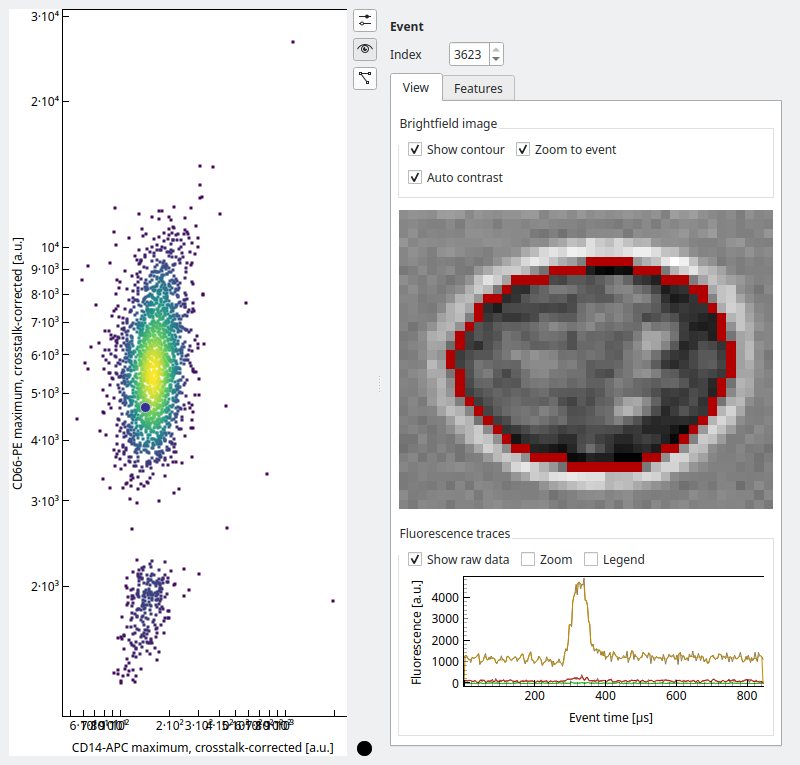
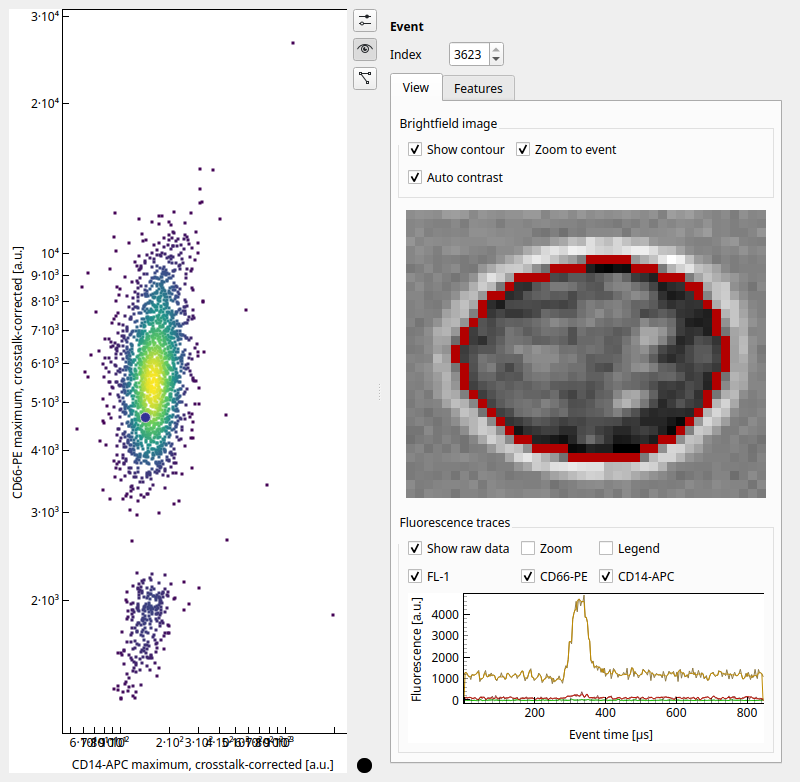
enh: allow to hide the traces of individual fluorescence channels (#249)
* enh: allow to hide the traces of individual fluorescence channels (#200)

New checkboxes (labeled with the channel names) above the trace plot
in the event panel of the Quick View.

* docs: update Quick View screenshots (fluorescence channel checkboxes)

* tests: wait for the event traces in test_trace_baseline_offset_issue_81

The trace plots initially contain placeholder data (10 points), so
waiting for `yData is not None` returned immediately and the test
failed on macOS CI when the event data were not shown yet.

---------

diff --git a/tests/test_gui_quickview.py b/tests/test_gui_quickview.py
@@ -1428,14 +1428,61 @@ def test_trace_baseline_offset_issue_81(qtbot, mw, tmp_path):
 
     plot_fl1 = qv.trace_plots["fl1_raw"]
     plot_fl2 = qv.trace_plots["fl2_raw"]
-    qtbot.waitUntil(lambda: plot_fl1.yData is not None
-                    and plot_fl2.yData is not None,
-                    timeout=5000)
 
     index = qv.ui.spinBox_event.value() - 1
     with dclab.new_dataset(path) as ds:
-        fl1 = ds["trace"]["fl1_raw"][index]
-        fl2 = ds["trace"]["fl2_raw"][index]
-    # offset only defined for channel 1
-    assert np.allclose(plot_fl1.yData, fl1 + 17)
-    assert np.allclose(plot_fl2.yData, fl2)
+        fl1 = np.array(ds["trace"]["fl1_raw"][index])
+        fl2 = np.array(ds["trace"]["fl2_raw"][index])
+
+    def traces_shown():
+        # The trace plots initially contain placeholder data, so we have
+        # to wait until the event data are shown.
+        assert len(plot_fl1.yData) == fl1.size
+        assert len(plot_fl2.yData) == fl2.size
+        # offset only defined for channel 1
+        assert np.allclose(plot_fl1.yData, fl1 + 17)
+        assert np.allclose(plot_fl2.yData, fl2)
+
+    qtbot.waitUntil(traces_shown, timeout=5000)
+
+
+def test_hide_fluorescence_channel_traces_issue_200(qtbot, mw):
+    """Traces of individual fluorescence channels can be hidden (#200)"""
+    qtbot.addWidget(mw)
+    mw.add_dataslot(paths=[datapath / "calibration_beads_47.rtdc"])
+    mw.pipeline.slots[0].fl_name_dict["FL-2"] = "PE"
+
+    slot_id = mw.pipeline.slot_ids[0]
+    filt_id = mw.pipeline.filter_ids[0]
+    em = mw.ui.block_matrix.get_widget(slot_id, filt_id)
+    qtbot.mouseClick(em, QtCore.Qt.MouseButton.LeftButton)
+    qtbot.mouseClick(em, QtCore.Qt.MouseButton.LeftButton,
+                     QtCore.Qt.KeyboardModifier.ShiftModifier)
+    qv = mw.widget_quick_view
+    qtbot.waitUntil(qv.isVisible, timeout=5000)
+    qtbot.mouseClick(qv.ui.toolButton_event,
+                     QtCore.Qt.MouseButton.LeftButton)
+    tp = qv.trace_plots
+    qtbot.waitUntil(lambda: tp["fl1_raw"].isVisible()
+                    and tp["fl2_raw"].isVisible(),
+                    timeout=5000)
+    # the checkboxes are labeled with the channel names
+    assert qv.ui.checkBox_trace_fl2.text() == "PE"
+
+    # hide FL-2
+    qv.ui.checkBox_trace_fl2.setChecked(False)
+    qtbot.waitUntil(lambda: not tp["fl2_raw"].isVisible(), timeout=5000)
+    assert not tp["fl2_median"].isVisible()
+    assert tp["fl1_raw"].isVisible()
+    assert tp["fl1_median"].isVisible()
+    assert tp["fl3_median"].isVisible()
+
+    # still hidden for the next event
+    qv.ui.spinBox_event.setValue(qv.ui.spinBox_event.value() + 1)
+    QtTest.QTest.qWait(500)
+    assert not tp["fl2_raw"].isVisible()
+    assert tp["fl1_raw"].isVisible()
+
+    # show FL-2 again
+    qv.ui.checkBox_trace_fl2.setChecked(True)
+    qtbot.waitUntil(lambda: tp["fl2_raw"].isVisible(), timeout=5000)

diff --git a/dcscope/gui/quick_view/qv_main.py b/dcscope/gui/quick_view/qv_main.py
@@ -143,6 +143,9 @@ class QuickView(QtWidgets.QWidget):
             self.on_event_scatter_update)
         self.ui.checkBox_trace_zoom.stateChanged.connect(
             self.on_event_scatter_update)
+        for ii in range(1, 4):
+            getattr(self.ui, f"checkBox_trace_fl{ii}").stateChanged.connect(
+                self.on_event_scatter_update)
         self.ui.tabWidget_event.currentChanged.connect(
             self.on_event_scatter_update)
 
@@ -334,6 +337,10 @@ class QuickView(QtWidgets.QWidget):
             "trace legend": self.ui.checkBox_trace_legend.isChecked(),
             "trace raw": self.ui.checkBox_trace_raw.isChecked(),
             "trace zoom": self.ui.checkBox_trace_zoom.isChecked(),
+            # fluorescence channels for which traces are shown (#200)
+            "trace channels": [
+                ii for ii in range(1, 4)
+                if getattr(self.ui, f"checkBox_trace_fl{ii}").isChecked()],
         }
         state = {
             "plot": plot,
@@ -383,6 +390,10 @@ class QuickView(QtWidgets.QWidget):
             self.ui.spinBox_event.setValue(event["index"])
             self.ui.checkBox_trace_raw.setChecked(event["trace raw"])
             self.ui.checkBox_trace_legend.setChecked(event["trace legend"])
+            channels = event.get("trace channels", [1, 2, 3])
+            for ii in range(1, 4):
+                getattr(self.ui, f"checkBox_trace_fl{ii}").setChecked(
+                    ii in channels)
 
     def enable_interface(self, value):
         # Initially, only show the info about how QuickView works
@@ -487,9 +498,19 @@ class QuickView(QtWidgets.QWidget):
         # fluorescence intensity
         range_fl = [0, 0]
 
+        # Show checkboxes only for the channels with traces (#200)
+        for ii in range(1, 4):
+            cb = getattr(self.ui, f"checkBox_trace_fl{ii}")
+            cb.setVisible(any(name.startswith(f"fl{ii}_") for name in tdata))
+            if self.slot is not None:
+                cb.setText(self.slot.fl_name_dict[f"FL-{ii}"])
+
         for name in dclab.dfn.FLUOR_TRACES:
             if name.count("raw") and not state["event"]["trace raw"]:
                 # hide raw trace data if user decided so
+                show = False
+            elif int(name[2]) not in state["event"]["trace channels"]:
+                # hide traces of this channel if user decided so
                 show = False
             else:
                 show = True

diff --git a/dcscope/gui/quick_view/qv_main_ui.py b/dcscope/gui/quick_view/qv_main_ui.py
@@ -389,6 +389,18 @@ class Ui_Form(object):
         self.checkBox_trace_legend = QtWidgets.QCheckBox(parent=self.widget)
         self.checkBox_trace_legend.setObjectName("checkBox_trace_legend")
         self.gridLayout_4.addWidget(self.checkBox_trace_legend, 0, 2, 1, 1)
+        self.checkBox_trace_fl1 = QtWidgets.QCheckBox(parent=self.widget)
+        self.checkBox_trace_fl1.setChecked(True)
+        self.checkBox_trace_fl1.setObjectName("checkBox_trace_fl1")
+        self.gridLayout_4.addWidget(self.checkBox_trace_fl1, 1, 0, 1, 1)
+        self.checkBox_trace_fl2 = QtWidgets.QCheckBox(parent=self.widget)
+        self.checkBox_trace_fl2.setChecked(True)
+        self.checkBox_trace_fl2.setObjectName("checkBox_trace_fl2")
+        self.gridLayout_4.addWidget(self.checkBox_trace_fl2, 1, 1, 1, 1)
+        self.checkBox_trace_fl3 = QtWidgets.QCheckBox(parent=self.widget)
+        self.checkBox_trace_fl3.setChecked(True)
+        self.checkBox_trace_fl3.setObjectName("checkBox_trace_fl3")
+        self.gridLayout_4.addWidget(self.checkBox_trace_fl3, 1, 2, 1, 1)
         self.verticalLayout_6.addLayout(self.gridLayout_4)
         self.graphicsView_trace = SimplePlotWidget(parent=self.widget)
         self.graphicsView_trace.setMinimumSize(QtCore.QSize(0, 150))
@@ -600,6 +612,12 @@ class Ui_Form(object):
         self.checkBox_trace_raw.setText(_translate("Form", "Show raw data"))
         self.checkBox_trace_zoom.setText(_translate("Form", "Zoom"))
         self.checkBox_trace_legend.setText(_translate("Form", "Legend"))
+        self.checkBox_trace_fl1.setToolTip(_translate("Form", "Show the traces of fluorescence channel 1"))
+        self.checkBox_trace_fl1.setText(_translate("Form", "FL-1"))
+        self.checkBox_trace_fl2.setToolTip(_translate("Form", "Show the traces of fluorescence channel 2"))
+        self.checkBox_trace_fl2.setText(_translate("Form", "FL-2"))
+        self.checkBox_trace_fl3.setToolTip(_translate("Form", "Show the traces of fluorescence channel 3"))
+        self.checkBox_trace_fl3.setText(_translate("Form", "FL-3"))
         self.tabWidget_event.setTabText(self.tabWidget_event.indexOf(self.tab_view), _translate("Form", "View"))
         self.tabWidget_event.setTabText(self.tabWidget_event.indexOf(self.tab_features), _translate("Form", "Features"))
         self.label_9.setText(_translate("Form", "<b>Polygon Filter</b>"))

diff --git a/docs/sec_interface.rst b/docs/sec_interface.rst
@@ -244,7 +244,9 @@ select single events by clicking in the scatter plot or by scrolling through
 the *Index* spin control. If available, the event image is shown alongside the
 fluorescence trace of the event. If the legend of the fluorescence trace
 plot covers parts of the traces, you can move it by dragging it with the
-mouse. All features of the event are listed in a separate tab.
+mouse. The checkboxes above the trace plot allow you to hide the raw traces
+or the traces of individual fluorescence channels. All features of the
+event are listed in a separate tab.
 
 .. figure:: scrots/ui_qv_event.png
     :target: _images/ui_qv_event.png
